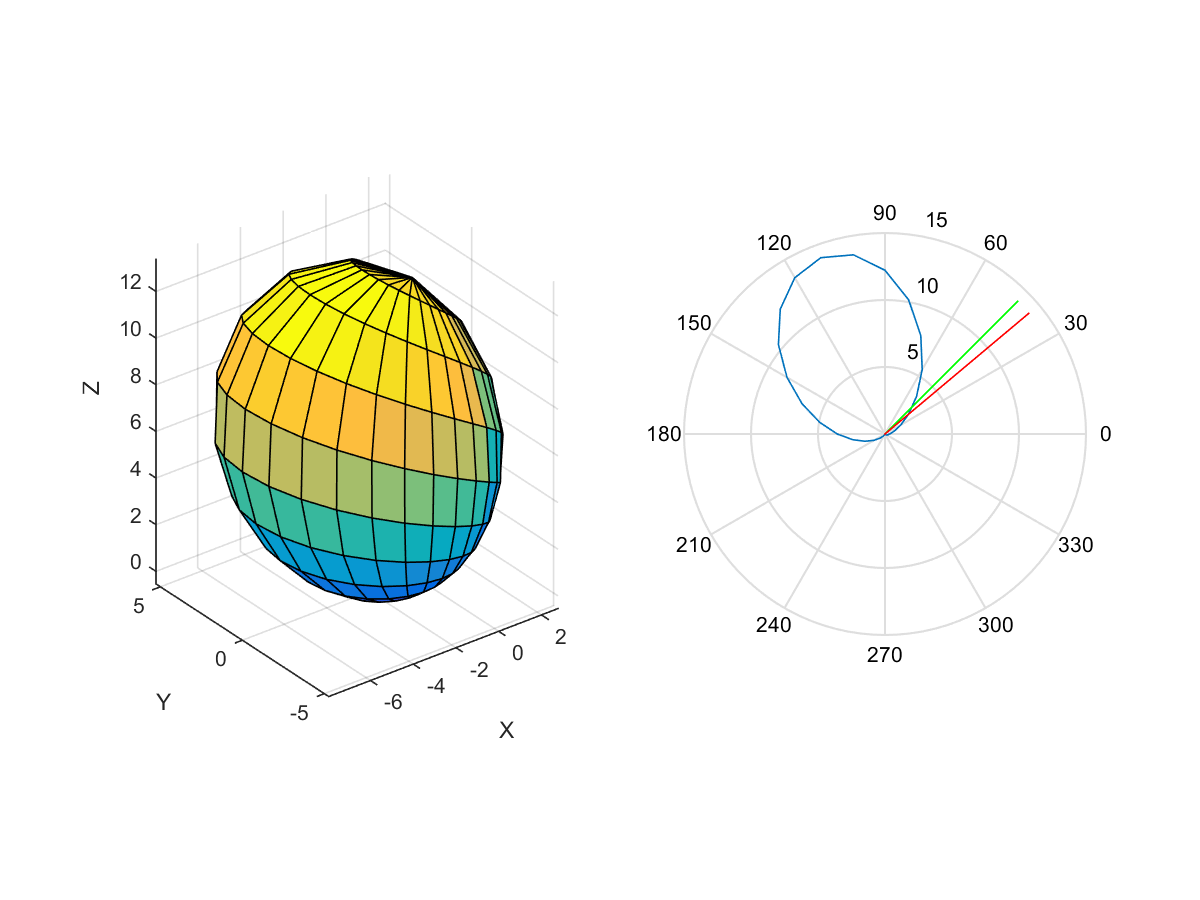
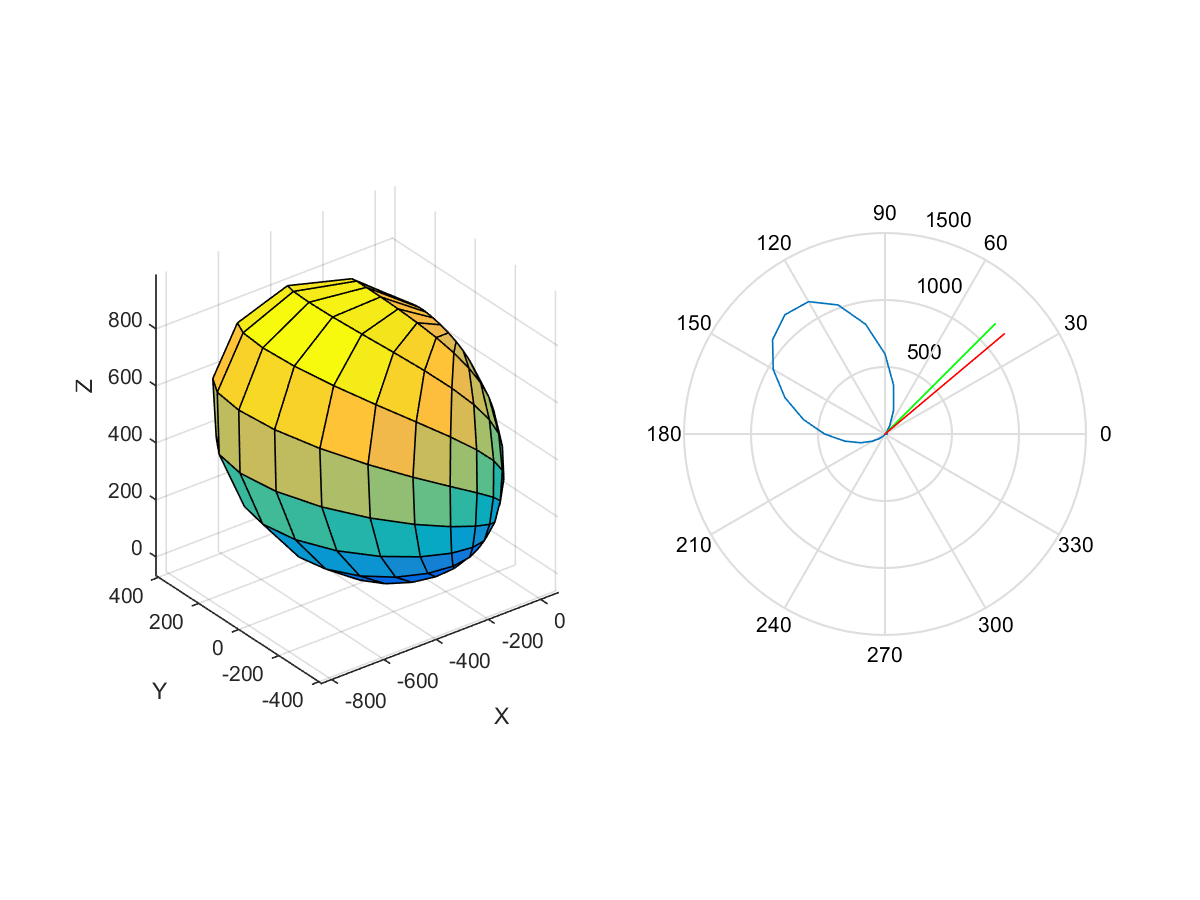
Лабораторная работа №2 22.03.17, вариант для отчёта.

diff --git a/Antenna_array/P3_antenna_array.m b/Antenna_array/P3_antenna_array.m
@@ -2,39 +2,15 @@ clear all;
 clc;
 close all;
 
-%f0 = 10e9;
-%c = 3*10e8;
-%lambda = c/f0;
-
-%alpha = deg2rad(-180:2:180);
-%beta = deg2rad(-90:2:90);
-
-%[alpha_m, beta_m] = meshgrid(alpha, beta);
-
-%F = abs(cos(alpha_m) .* 1);%ones(length(beta), 1) * (1 + cos(alpha - pi/2)).^2; 
-%[x, y, z] = sph2cart(beta_m, alpha_m, F);
-
-
-%figure(1);
-%surf(x,y,z);
-% xlabel('x'); 
-% ylabel('y'); 
-% zlabel('z');
-% minc = min([min(min(x)) min(min(y)) min(min(z))]);
-% maxc = max([max(max(x)) max(max(y)) max(max(z))]);
-% xlim([minc maxc]);
-% ylim([minc maxc]);
-% zlim([minc maxc]);
-
 %variant 11
 %lambda/4
-%snr = 10 db
+%nsr = 10 db
 %angle alpha = 45 grad
 %4 antennas
 
 lambda = 1/4;
-snr_db = 10;
-snr = 10^(snr_db/10);
+nsr_db = 50;
+nsr = 10^(nsr_db/10);
 
 a_step = 10;
 b_step = 10;
@@ -57,8 +33,6 @@ saveas(gcf, 'pic//basic_pattern', 'png');
 
 axis equal;
 clear F;
-%F = ones(length(b), 1)*(1 + cos(a - pi/2)).^2; 
-%F2 = F' * focus_vector(0,0,lambda)';
 
 F_square = ones(length(b), 1) * (1 + cos(a - pi/2)).^2;
 figure(2);
@@ -73,7 +47,7 @@ a_s = deg2rad(45);
 
 for a_j = deg2rad(0:a_step:180)
     fv = focus_vector(a_j, b_j, lambda);
-    D = snr * fv * fv' + eye(4);
+    D = nsr * fv * fv' + eye(4);
     fv_s = focus_vector(a_s, b_s, lambda);
     beta_w = D \ fv_s / (fv_s' * (D \ fv_s));
     
@@ -107,8 +81,5 @@ for a_j = deg2rad(0:a_step:180)
     s = sprintf('pic//DN_a_j_%03.0f.png', round(rad2deg(a_j)));
     saveas(gcf, s, 'png');
 end
-%figure(2);
-%surf(x, y, z);
-%axis equal;
 
 
